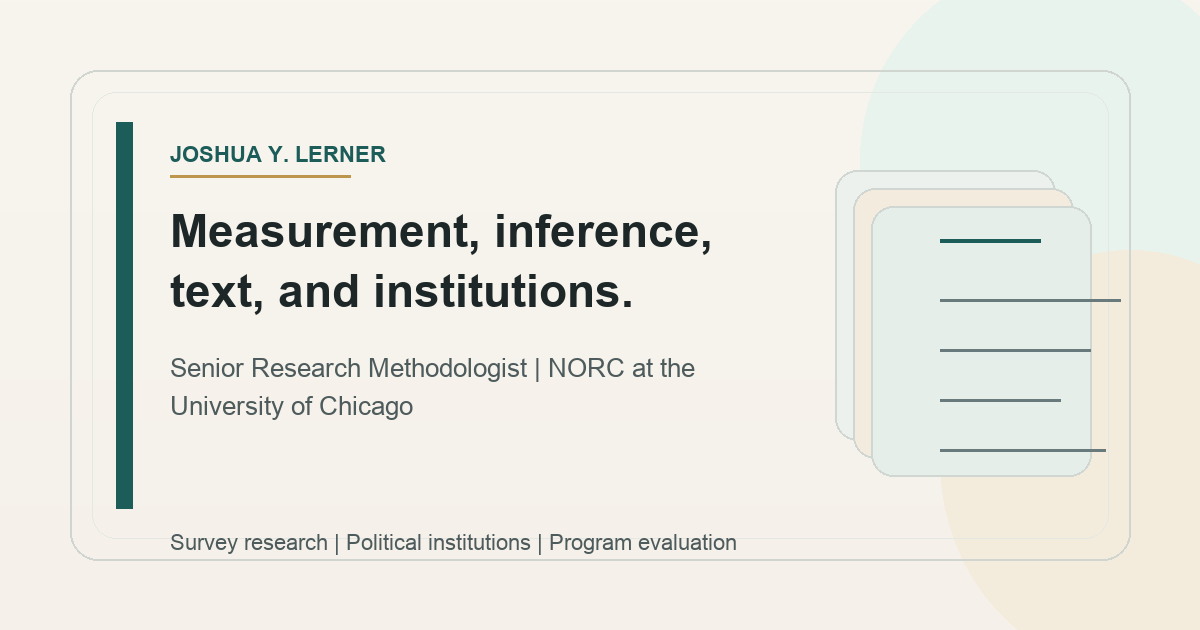
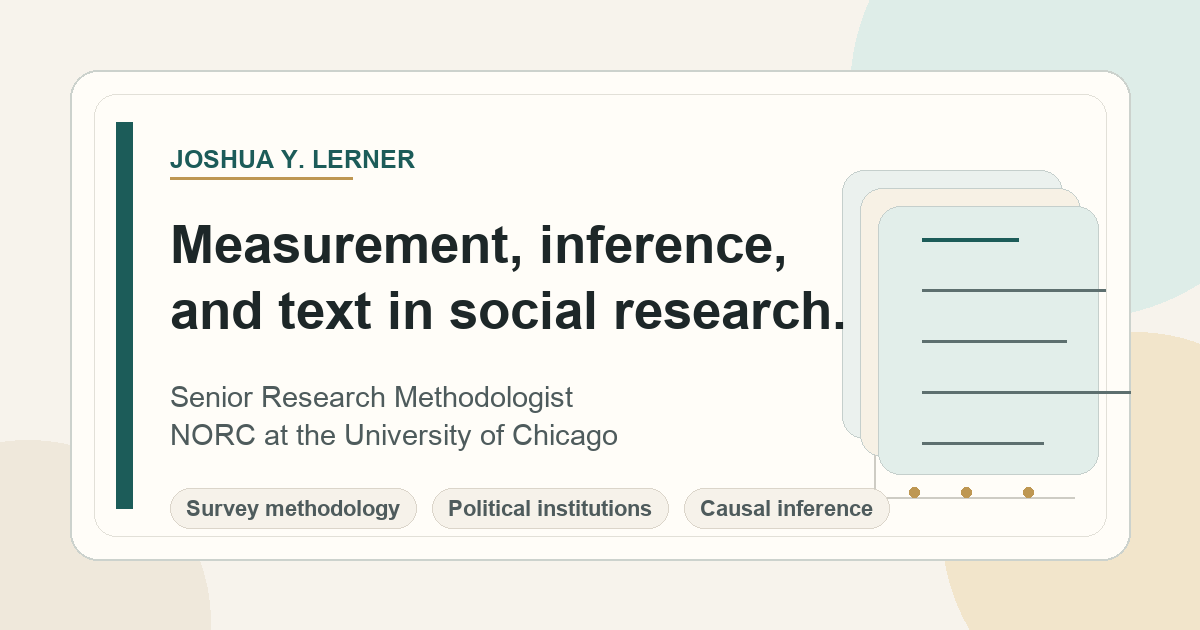
Trim site copy and refresh social card

diff --git a/src/data/site.ts b/src/data/site.ts
@@ -33,17 +33,16 @@ export const site = {
   email: "lerner-joshua@norc.org",
   url: "https://jyl19.github.io",
   socialImage: "/images/social-card.png",
-  socialImageAlt: "Joshua Y. Lerner website preview card",
+  socialImageAlt: "Joshua Y. Lerner name and research focus preview card",
   hero: "Research methodologist working on measurement, inference, text, and institutions.",
   intro:
-    "I work across survey methodology, political science, NLP and generative AI, and causal inference. Much of that work is about measuring complex social and political phenomena more credibly and using computational tools in disciplined ways for real research problems.",
+    "I work across survey methodology, political science, NLP and generative AI, and causal inference. The common problem is measurement: how to study complex social and political phenomena with data that are textual, administrative, incomplete, or behaviorally messy.",
   summary:
-    "My research brings together survey methodology, computational social science, political institutions, public opinion, and applied program evaluation. Across those areas, the common concern is better empirical work: clearer constructs, stronger designs, and more credible learning from difficult data.",
+    "My work links computational tools with research design. I build and evaluate measures for survey responses, legislative text, public opinion, and policy programs, with attention to construct validity and credible inference.",
   bio: [
-    "I work on problems where measurement, inference, text, and institutions meet. Some of that work is methodological: using NLP and generative AI to classify, summarize, and learn from complex data, especially in surveys and political text. Some of it is applied: using strong research designs to evaluate policies, programs, and interventions in messy, high-stakes settings.",
-    "Across those areas, the common thread is simple: how to make better empirical claims about complicated phenomena without losing sight of construct validity, institutional context, or the limits of our tools.",
-    "My peer-reviewed work appears in journals including American Political Science Review, Journal of Politics, Perspectives on Politics, Legislative Studies Quarterly, Public Choice, Review of International Political Economy, JAMA Health Forum, and Journal of Survey Statistics and Methodology.",
-    "Before joining NORC, I held positions at Duke University and Northwestern University Pritzker School of Law. I received my PhD in Political Science from Duke University."
+    "Methodological projects use NLP and generative AI to code open-ended survey responses, assess response quality, classify legislative text, and summarize complex records. Applied projects use design-based and econometric approaches to evaluate policies and programs when implementation, timing, and data quality are imperfect.",
+    "The throughline is disciplined empirical work: clear constructs, appropriate models, and claims that stay connected to institutional context and the limits of the data.",
+    "My peer-reviewed work appears in journals including American Political Science Review, Journal of Politics, Perspectives on Politics, Legislative Studies Quarterly, Public Choice, Review of International Political Economy, JAMA Health Forum, and Journal of Survey Statistics and Methodology. I received my PhD in Political Science from Duke University and previously held positions at Duke and Northwestern University Pritzker School of Law."
   ],
   links: [
     { label: "Publications", href: "/publications" },
@@ -62,22 +61,22 @@ export const site = {
     {
       title: "AI and measurement in survey research",
       body:
-        "Using NLP and generative AI to improve coding, response-quality assessment, open-ended analysis, and other hard measurement tasks in surveys."
+        "Using NLP and generative AI to improve open-ended coding, response-quality assessment, questionnaire evaluation, and related validity checks."
     },
     {
       title: "Deliberation, public opinion, and political behavior",
       body:
-        "Studying whether structured discussion, including AI-assisted deliberation, can change what citizens know, how they think, and how they participate."
+        "Studying whether structured discussion, including AI-assisted deliberation, changes what citizens know, how they reason, and how they participate."
     },
     {
       title: "Legislative text and political institutions",
       body:
-        "Using text analysis and measurement models to study delegation, complexity, and institutional behavior in Congress and related settings."
+        "Using text analysis and measurement models to study delegation, complexity, procedure, and institutional behavior in Congress."
     },
     {
       title: "Applied causal inference for policy evaluation",
       body:
-        "Designing and executing evaluations of policies and programs in real-world environments where treatment timing, implementation, and data quality are imperfect."
+        "Designing evaluations of policies and programs where treatment timing, implementation, and administrative data are imperfect."
     }
   ],
 };

diff --git a/src/data/repositories.ts b/src/data/repositories.ts
@@ -10,14 +10,15 @@ export const repositories: Repository[] = [
   {
     title: "Legislative_Data",
     href: "https://github.com/jyl19/Legislative_Data",
-    description: "Tools for manipulating legislative texts.",
+    description:
+      "Python utilities for collecting, cleaning, and manipulating legislative text for research on Congress and political institutions.",
     language: "Python",
     kind: "Legislative text tools"
   },
   {
     title: "jyl19.github.io",
     href: "https://github.com/jyl19/jyl19.github.io",
-    description: "Source code for this static academic website.",
+    description: "Source code for this lightweight static Astro academic website.",
     language: "Astro / TypeScript",
     kind: "Website source"
   }

diff --git a/src/styles/global.css b/src/styles/global.css
@@ -155,7 +155,10 @@ h3 {
 }
 
 h1 {
-  font-size: clamp(1.95rem, 4.2vw, 3.2rem);
+  font-size: clamp(1.85rem, 3.8vw, 3rem);
+}
+
+.hero h1 {
   max-width: 12ch;
 }
 
@@ -188,18 +191,15 @@ p {
 }
 
 .button {
-  display: inline-flex;
-  align-items: center;
-  border-radius: 999px;
-  text-decoration: none;
-}
-
-.button {
   padding: 0.62rem 0.92rem;
   border: 1px solid var(--line);
+  border-radius: 999px;
   color: var(--text);
+  display: inline-flex;
+  align-items: center;
   background: white;
   font-size: 0.9rem;
+  text-decoration: none;
 }
 
 .button.primary {
